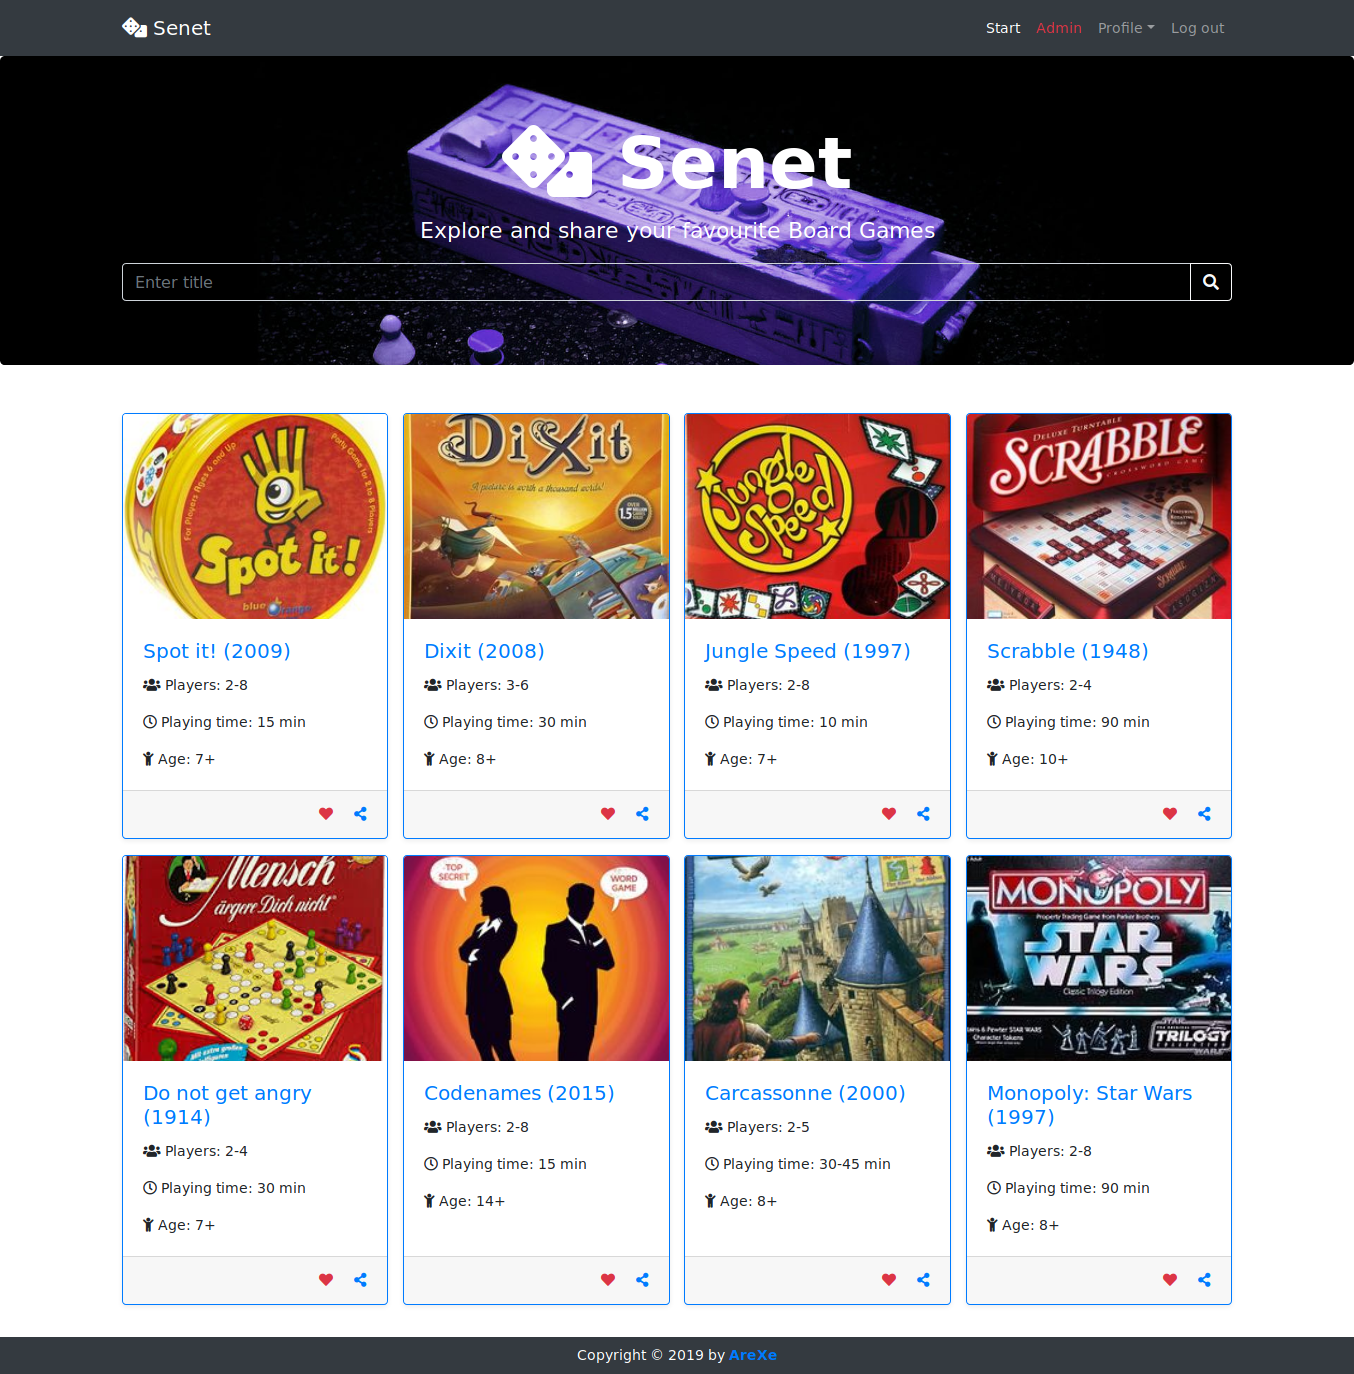
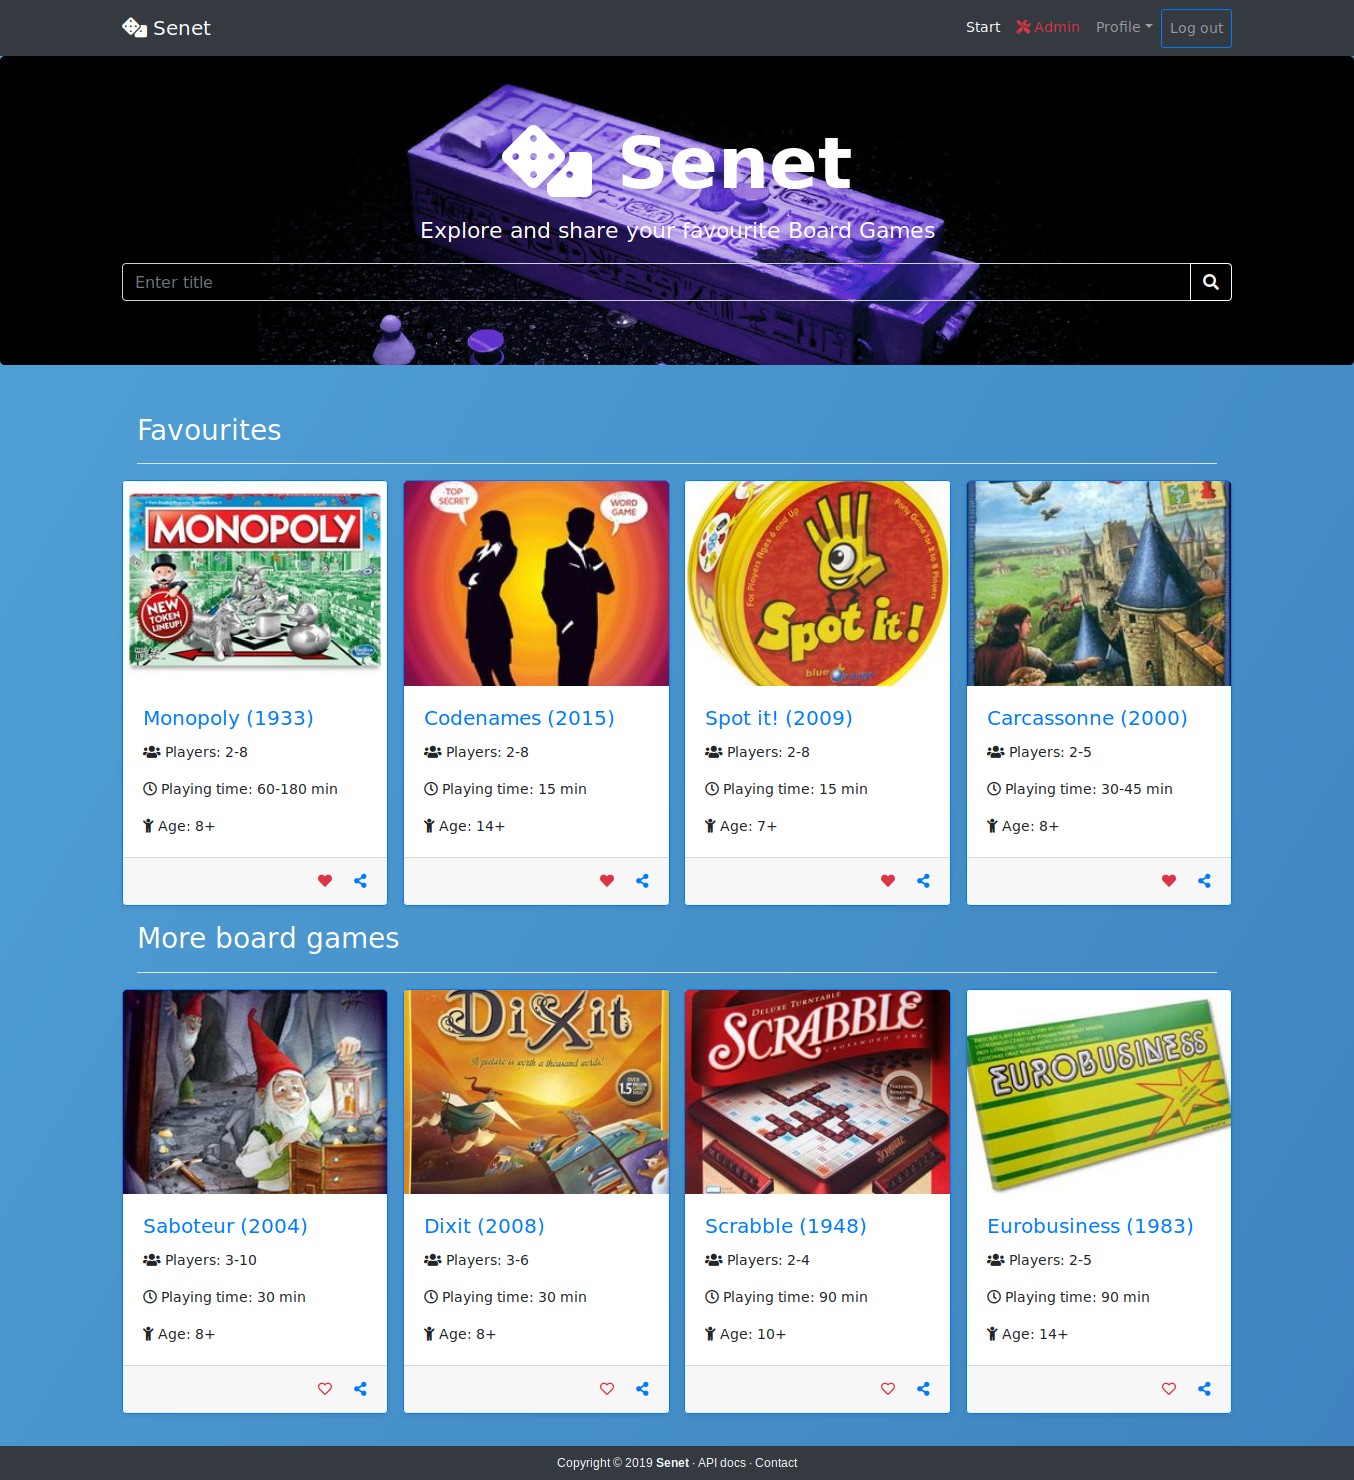
Update dependencies, footer and db script

diff --git a/src/main/resources/static/css/styles.css b/src/main/resources/static/css/styles.css
@@ -37,6 +37,21 @@ main {
     100%{background-position:0% 50%}
 }
 
+/*Footer*/
+#copyright {
+    font-family: Arial;
+    font-size: 12px;
+}
+
+#copyright a {
+    color: mintcream;
+}
+
+#copyright a:hover, a:focus {
+    color: #b8d6ff;
+    text-decoration: none;
+}
+
 /*Feather icons*/
 .feather {
     width: 20px;
